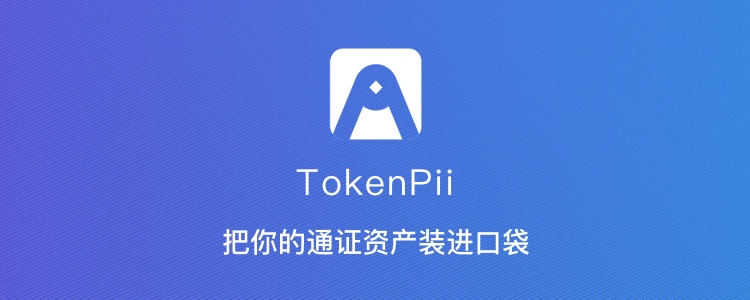
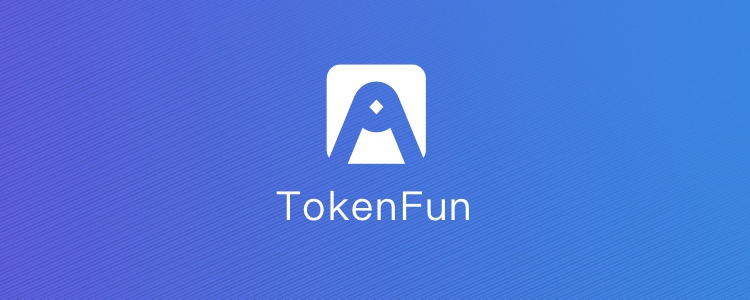
更换tokenpii为tokenfun

Changed region(s): [[0.276, 0.15, 0.7053, 0.87]]

diff --git a/js/containers/Enter/screens/Splash.js b/js/containers/Enter/screens/Splash.js
@@ -6,7 +6,7 @@ import { Colors } from '../../../libs/Colors';
 import { translate, locale } from '../../../libs';
 import { resetNavigationTo } from '../../../libs/help';
 
-import { SwipeableView, SplashScreen as SplashScreenA } from '../../../components';
+import { SplashScreen as SplashScreenA } from '../../../components';
 
 import { Button, Icon } from 'react-native-elements';
 

diff --git a/js/AppRoutes.js b/js/AppRoutes.js
@@ -20,15 +20,6 @@ import Ionicons from 'react-native-vector-icons/MaterialIcons';
 
 export const notFoundKey = 'NotFound';
 
-const ImageTitle = props => (
-  <Image
-    style={{
- width: 50, height: 36, resizeMode: 'contain', alignSelf: 'center',
-}}
-    source={require('./components/images/aftlogo.png')}
-  />
-);
-
 /**
  * Gets an Icon component.
  */

diff --git a/js/components/index.js b/js/components/index.js
@@ -8,8 +8,6 @@ export * from './CustomTabBar';
 export * from './LoadingScreen';
 export * from './LoadingData';
 
-export * from './SwipeableView';
-
 export * from './TransactionConfirmModal';
 export * from './LoadingRegister';
 export * from './LoadingLogin';

diff --git a/js/components/LaunchScreen.js b/js/components/LaunchScreen.js
@@ -69,8 +69,8 @@ const styles = {
     height: SCREEN_HEIGHT,
   },
   icon: {
-    width: 100,
-    height: 140,
+    width: 90,
+    height: 106,
     marginTop: 30,
   },
   title: {

diff --git a/js/components/SplashScreen.js b/js/components/SplashScreen.js
@@ -82,8 +82,8 @@ const styles = {
     height: SCREEN_HEIGHT,
   },
   icon: {
-    width: 100,
-    height: 140,
+    width: 90,
+    height: 106,
     marginTop: 30,
   },
   title: {
